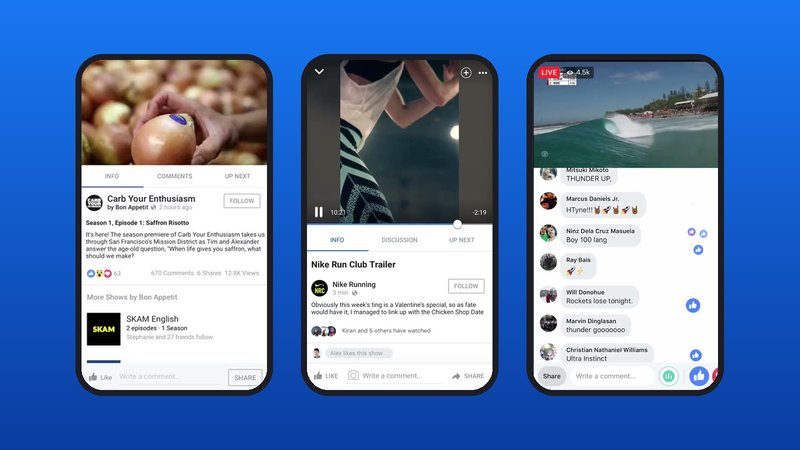
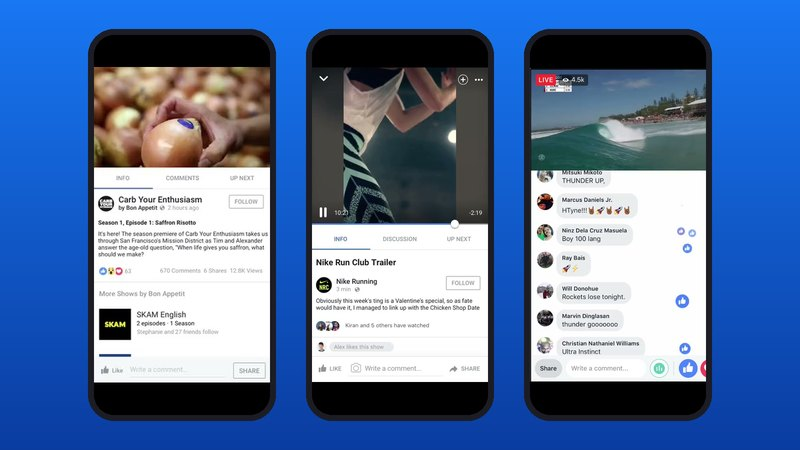
Give Social Player taller, larger phones
The three phone videos now sit in the modern-height phone frame at 330px
wide, letterboxed in black above and below, instead of the short 16:9
frame. The homepage thumbnail uses the same proportions.

diff --git a/social-player/index.html b/social-player/index.html
@@ -13,7 +13,7 @@
 <link rel="preconnect" href="https://fonts.googleapis.com">
 <link rel="preconnect" href="https://fonts.gstatic.com" crossorigin>
 <link href="https://fonts.googleapis.com/css2?family=DM+Sans:ital,wght@0,400..700;1,400..700&family=IBM+Plex+Mono:wght@400;500;600;700&display=swap" rel="stylesheet">
-<link rel="stylesheet" href="../assets/case-study.css?v=23">
+<link rel="stylesheet" href="../assets/case-study.css?v=24">
 <link rel="stylesheet" href="../assets/site.css?v=21">
 <script>
   try { if(localStorage.getItem('theme') === 'light') document.documentElement.setAttribute('data-theme', 'light'); } catch(e){}
@@ -59,7 +59,7 @@
         <div class="copy">
           <p>The tabs and the shelf under the video held everything needed to make viewing a richer experience: info about the video and the show, the conversation, and what&rsquo;s up next.</p>
         </div>
-        <figure class="phones"><div class="phone is-classic"><div class="screen" data-player data-label="Shelf layout video"><video src="assets/shelf.mp4" poster="assets/shelf.jpg" width="260" height="466" preload="none" loop muted playsinline aria-label="A cooking show playing above the shelf, with Info, Comments and Up Next tabs"></video></div></div></figure>
+        <figure class="phones is-large"><div class="phone"><div class="screen is-contain" data-player data-label="Shelf layout video"><video src="assets/shelf.mp4" poster="assets/shelf.jpg" width="260" height="466" preload="none" loop muted playsinline aria-label="A cooking show playing above the shelf, with Info, Comments and Up Next tabs"></video></div></div></figure>
       </section>
 
       <section>
@@ -68,7 +68,7 @@
         <div class="copy">
           <p>The shelf could be easily dismissed so vertical videos could take the full stage, with an easy way to see what&rsquo;s coming next without pulling more info back up.</p>
         </div>
-        <figure class="phones"><div class="phone is-classic"><div class="screen" data-player data-label="Vertical video"><video src="assets/vertical.mp4" poster="assets/vertical.jpg" width="448" height="800" preload="none" loop muted playsinline aria-label="A vertical trailer playing above the shelf, then filling the screen as the shelf is dismissed"></video></div></div></figure>
+        <figure class="phones is-large"><div class="phone"><div class="screen is-contain" data-player data-label="Vertical video"><video src="assets/vertical.mp4" poster="assets/vertical.jpg" width="448" height="800" preload="none" loop muted playsinline aria-label="A vertical trailer playing above the shelf, then filling the screen as the shelf is dismissed"></video></div></div></figure>
       </section>
 
       <section>
@@ -77,7 +77,7 @@
         <div class="copy">
           <p>Working with partners like the World Surf League, I designed standings and scoring modules that could be reused for future sports on Facebook Watch.</p>
         </div>
-        <figure class="phones"><div class="phone is-classic"><div class="screen" data-player data-label="Live sports video"><video src="assets/sports.mp4" poster="assets/sports.jpg" width="440" height="784" preload="none" loop muted playsinline aria-label="A live World Surf League heat with scores above a stream of comments"></video></div></div></figure>
+        <figure class="phones is-large"><div class="phone"><div class="screen is-contain" data-player data-label="Live sports video"><video src="assets/sports.mp4" poster="assets/sports.jpg" width="440" height="784" preload="none" loop muted playsinline aria-label="A live World Surf League heat with scores above a stream of comments"></video></div></div></figure>
       </section>
 
       <section>

diff --git a/confetti/index.html b/confetti/index.html
@@ -13,7 +13,7 @@
 <link rel="preconnect" href="https://fonts.googleapis.com">
 <link rel="preconnect" href="https://fonts.gstatic.com" crossorigin>
 <link href="https://fonts.googleapis.com/css2?family=DM+Sans:ital,wght@0,400..700;1,400..700&family=IBM+Plex+Mono:wght@400;500;600;700&display=swap" rel="stylesheet">
-<link rel="stylesheet" href="../assets/case-study.css?v=23">
+<link rel="stylesheet" href="../assets/case-study.css?v=24">
 <link rel="stylesheet" href="../assets/site.css?v=21">
 <script>
   try { if(localStorage.getItem('theme') === 'light') document.documentElement.setAttribute('data-theme', 'light'); } catch(e){}

diff --git a/dynamic-ads/index.html b/dynamic-ads/index.html
@@ -13,7 +13,7 @@
 <link rel="preconnect" href="https://fonts.googleapis.com">
 <link rel="preconnect" href="https://fonts.gstatic.com" crossorigin>
 <link href="https://fonts.googleapis.com/css2?family=DM+Sans:ital,wght@0,400..700;1,400..700&family=IBM+Plex+Mono:wght@400;500;600;700&display=swap" rel="stylesheet">
-<link rel="stylesheet" href="../assets/case-study.css?v=23">
+<link rel="stylesheet" href="../assets/case-study.css?v=24">
 <link rel="stylesheet" href="../assets/site.css?v=21">
 <script>
   try { if(localStorage.getItem('theme') === 'light') document.documentElement.setAttribute('data-theme', 'light'); } catch(e){}

diff --git a/facebook-tv/index.html b/facebook-tv/index.html
@@ -13,7 +13,7 @@
 <link rel="preconnect" href="https://fonts.googleapis.com">
 <link rel="preconnect" href="https://fonts.gstatic.com" crossorigin>
 <link href="https://fonts.googleapis.com/css2?family=DM+Sans:ital,wght@0,400..700;1,400..700&family=IBM+Plex+Mono:wght@400;500;600;700&display=swap" rel="stylesheet">
-<link rel="stylesheet" href="../assets/case-study.css?v=23">
+<link rel="stylesheet" href="../assets/case-study.css?v=24">
 <link rel="stylesheet" href="../assets/site.css?v=21">
 <script>
   try { if(localStorage.getItem('theme') === 'light') document.documentElement.setAttribute('data-theme', 'light'); } catch(e){}

diff --git a/igtv/index.html b/igtv/index.html
@@ -13,7 +13,7 @@
 <link rel="preconnect" href="https://fonts.googleapis.com">
 <link rel="preconnect" href="https://fonts.gstatic.com" crossorigin>
 <link href="https://fonts.googleapis.com/css2?family=DM+Sans:ital,wght@0,400..700;1,400..700&family=IBM+Plex+Mono:wght@400;500;600;700&display=swap" rel="stylesheet">
-<link rel="stylesheet" href="../assets/case-study.css?v=23">
+<link rel="stylesheet" href="../assets/case-study.css?v=24">
 <link rel="stylesheet" href="../assets/site.css?v=21">
 <script>
   try { if(localStorage.getItem('theme') === 'light') document.documentElement.setAttribute('data-theme', 'light'); } catch(e){}

diff --git a/password-sharing/index.html b/password-sharing/index.html
@@ -13,7 +13,7 @@
 <link rel="preconnect" href="https://fonts.googleapis.com">
 <link rel="preconnect" href="https://fonts.gstatic.com" crossorigin>
 <link href="https://fonts.googleapis.com/css2?family=DM+Sans:ital,wght@0,400..700;1,400..700&family=IBM+Plex+Mono:wght@400;500;600;700&display=swap" rel="stylesheet">
-<link rel="stylesheet" href="../assets/case-study.css?v=23">
+<link rel="stylesheet" href="../assets/case-study.css?v=24">
 <link rel="stylesheet" href="../assets/site.css?v=21">
 <script>
   try { if(localStorage.getItem('theme') === 'light') document.documentElement.setAttribute('data-theme', 'light'); } catch(e){}

diff --git a/player-profiles/index.html b/player-profiles/index.html
@@ -13,7 +13,7 @@
 <link rel="preconnect" href="https://fonts.googleapis.com">
 <link rel="preconnect" href="https://fonts.gstatic.com" crossorigin>
 <link href="https://fonts.googleapis.com/css2?family=DM+Sans:ital,wght@0,400..700;1,400..700&family=IBM+Plex+Mono:wght@400;500;600;700&display=swap" rel="stylesheet">
-<link rel="stylesheet" href="../assets/case-study.css?v=23">
+<link rel="stylesheet" href="../assets/case-study.css?v=24">
 <link rel="stylesheet" href="../assets/site.css?v=21">
 <script>
   try { if(localStorage.getItem('theme') === 'light') document.documentElement.setAttribute('data-theme', 'light'); } catch(e){}

diff --git a/remix/index.html b/remix/index.html
@@ -13,7 +13,7 @@
 <link rel="preconnect" href="https://fonts.googleapis.com">
 <link rel="preconnect" href="https://fonts.gstatic.com" crossorigin>
 <link href="https://fonts.googleapis.com/css2?family=DM+Sans:ital,wght@0,400..700;1,400..700&family=IBM+Plex+Mono:wght@400;500;600;700&display=swap" rel="stylesheet">
-<link rel="stylesheet" href="../assets/case-study.css?v=23">
+<link rel="stylesheet" href="../assets/case-study.css?v=24">
 <link rel="stylesheet" href="../assets/site.css?v=21">
 <script>
   try { if(localStorage.getItem('theme') === 'light') document.documentElement.setAttribute('data-theme', 'light'); } catch(e){}

diff --git a/spatial-audio/index.html b/spatial-audio/index.html
@@ -13,7 +13,7 @@
 <link rel="preconnect" href="https://fonts.googleapis.com">
 <link rel="preconnect" href="https://fonts.gstatic.com" crossorigin>
 <link href="https://fonts.googleapis.com/css2?family=DM+Sans:ital,wght@0,400..700;1,400..700&family=IBM+Plex+Mono:wght@400;500;600;700&display=swap" rel="stylesheet">
-<link rel="stylesheet" href="../assets/case-study.css?v=23">
+<link rel="stylesheet" href="../assets/case-study.css?v=24">
 <link rel="stylesheet" href="../assets/site.css?v=21">
 <script>
   try { if(localStorage.getItem('theme') === 'light') document.documentElement.setAttribute('data-theme', 'light'); } catch(e){}

diff --git a/stage-channels/index.html b/stage-channels/index.html
@@ -13,7 +13,7 @@
 <link rel="preconnect" href="https://fonts.googleapis.com">
 <link rel="preconnect" href="https://fonts.gstatic.com" crossorigin>
 <link href="https://fonts.googleapis.com/css2?family=DM+Sans:ital,wght@0,400..700;1,400..700&family=IBM+Plex+Mono:wght@400;500;600;700&display=swap" rel="stylesheet">
-<link rel="stylesheet" href="../assets/case-study.css?v=23">
+<link rel="stylesheet" href="../assets/case-study.css?v=24">
 <link rel="stylesheet" href="../assets/site.css?v=21">
 <script>
   try { if(localStorage.getItem('theme') === 'light') document.documentElement.setAttribute('data-theme', 'light'); } catch(e){}

diff --git a/assets/case-study.css b/assets/case-study.css
@@ -382,6 +382,8 @@ figcaption{
 
 /* Wider-than-phone footage: show it whole, letterboxed top and bottom. */
 .phone .screen.is-contain video{object-fit:contain;}
+/* A bigger phone for older 16:9 recordings shown whole on a modern-height device, letterboxed in black. */
+.phones.is-large .phone{--pw:min(330px, 100cqi);}
 
 /* Three across (TV screenshots), and a pair of captioned videos. */
 .tiles.is-trio{grid-template-columns:repeat(3, minmax(0, 1fr));}

diff --git a/progress/case-study-edits.md b/progress/case-study-edits.md
@@ -22,6 +22,7 @@ Branch `case-study-edits` (from `main`), worktree `.claude/worktrees/case-study-
 - Password removed from every page (PROTECTED_PATHS is empty in worker/index.js).
 - Spatial Audio and Player Profiles are assets only: the overview paragraph ends, after a blank line, with "*Launching in Q4 2026. Full case study coming soon." Spatial Audio keeps its three big videos (banner removed) and links to about.netflix.com/en/news/netflix-spatial-audio. Player Profiles shows Current dashboard, Player profile V1 and Full demo from Case Studies slide 401:77, with captions. Full demo is the video from Desktop/Portfolio 2026/Netflix/Player Profiles/trim.mov (H.264 960x564, 30fps), poster from the slide still.
 - Links rows filled: Password Sharing (Netflix News), Player Profiles (Netflix Tudum), Dynamic Ads (Instagram for Business), Confetti (Facebook Newsroom). Not pushed yet.
+- Social Player phones: modern-height phone frame at 330px (.phones.is-large), videos letterboxed in black (.screen.is-contain). Thumbnail rebuilt with the same proportions.
 
 ## Open
 - Social Player: Links row is still [Link]. The slide's Problems text was copied from Facebook TV (mentions TV), so the page keeps only the video-variety part. Slide 55 (Baseline) had no media, so it isn't on the page.
